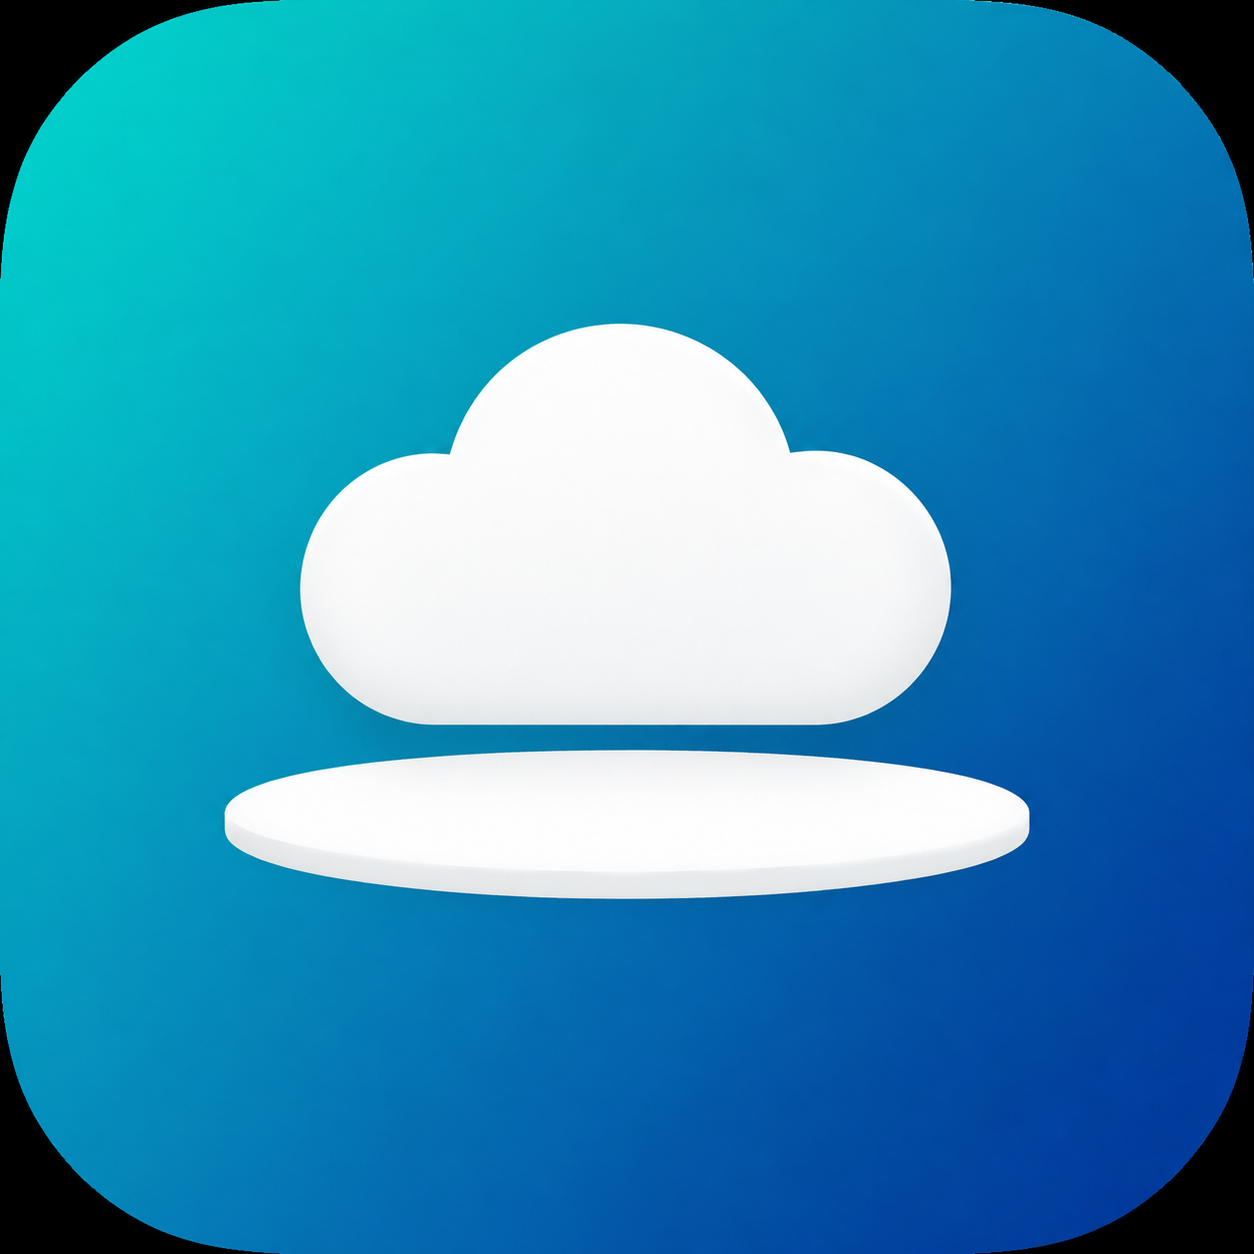
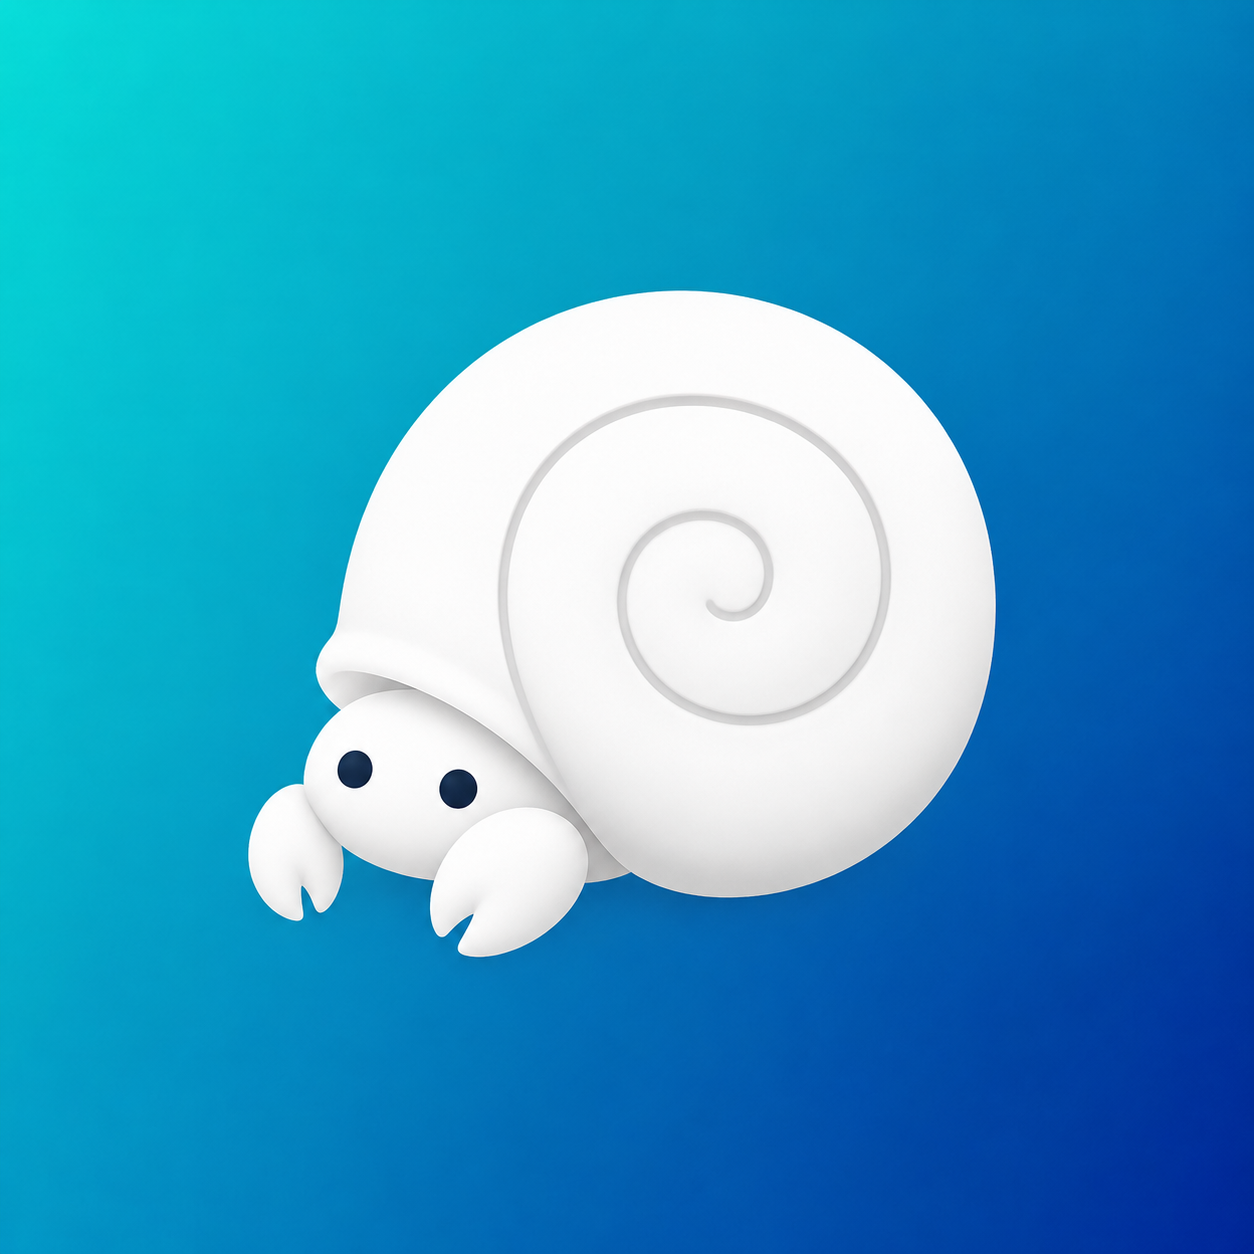
feat: draw the hermit crab instead of the cloud
The app icon and the menu bar mark are now generated art rather than
shapes assembled in code. The mark loads two images, filled and hollow,
cut from the same frame so it does not shift when the state changes.
Waiting dims the filled one; a failure puts the badge on the hollow one.

docs/art-prompt.md carries the prompts that produced these, along with
the two things the generator got wrong on the way: blank pupil-less eyes
on stalks, and thin walking legs that no outline survives.

diff --git a/Sources/Mark.swift b/Sources/Mark.swift
@@ -1,12 +1,12 @@
 import AppKit
 
-// Gocci の印。雲の下半分が円盤（ディスク）になっている。
+// Gocci の印。渦巻きの殻を背負ったヤドカリ。
 //
-// メニューバーでの実寸は 18pt しかないので、絵ではなく図形として組む。塊同士の
-// 組み合わせだけで出来ているため、縮めても輪郭が残る。
+// メニューバーでの実寸は 18pt しかない。形は `Resources/mark-solid.png` と
+// `Resources/mark-outline.png` の2枚が持っていて、ここでは読み込んで単色として
+// 扱うだけにする。塗りと中抜きは同じ枠で切ってあるので、状態が変わっても印は動かない。
 //
-// 同じ形をアプリのアイコン（1024px）でも使う。大小で別々に作ると必ずずれるので、
-// 座標は 100×100 の升目で一度だけ決めて、あとは倍率を掛ける。
+// 待ちは塗りを薄くしたもの、不具合は中抜きにバッジを重ねたもので、どちらもここで作る。
 
 enum Mark {
     /// メニューバーでの見せ方
@@ -22,70 +22,48 @@ enum Mark {
     }
 
     // MARK: - 形
-    //
-    // 幅 100・高さ 76 の升目で設計する。縦横で別々の倍率を掛けると円が歪むので、
-    // 倍率は幅からの1つだけにする。
 
-    /// 設計に使う升目の縦横比。画像の大きさもこれに合わせる
-    static let aspect: CGFloat = 100 / 76
+    /// 印の縦横比。2枚は同じ枠なので、どちらから取っても同じ
+    static var aspect: CGFloat {
+        guard let size = art(.solid)?.size, size.height > 0 else { return 1 }
+        return size.width / size.height
+    }
 
-    /// 雲。円盤より狭くする。同じ幅だと重なって、ひと塊の雲にしか見えない
-    static func cloud(in box: CGRect) -> CGPath {
-        let s = box.width / 100
-        let at = { (x: CGFloat, y: CGFloat, r: CGFloat) in
-            CGRect(
-                x: box.minX + (x - r) * s, y: box.minY + (y - r) * s,
-                width: r * 2 * s, height: r * 2 * s)
+    /// 印の絵。アプリの中では束の中、道具から呼ぶときは作業場所の Resources から読む
+    private static func art(_ style: Style) -> NSImage? {
+        let name = (style == .outline || style == .badged) ? "mark-outline" : "mark-solid"
+        if let cached = cache[name] { return cached }
+
+        var found: NSImage?
+        if let url = Bundle.main.url(forResource: name, withExtension: "png") {
+            found = NSImage(contentsOf: url)
         }
-
-        let path = CGMutablePath()
-        path.addEllipse(in: at(50, 52, 22))  // 中央の高いふくらみ
-        path.addEllipse(in: at(28, 44, 16))
-        path.addEllipse(in: at(72, 44, 16))
-        // ふくらみの下を埋めて、底をまっすぐ円盤へ落とす
-        path.addRect(
-            CGRect(x: box.minX + 12 * s, y: box.minY + 38 * s, width: 76 * s, height: 10 * s))
-        return path
+        if found == nil {
+            found = NSImage(contentsOfFile: "Resources/\(name).png")
+        }
+        cache[name] = found
+        return found
     }
 
-    /// 円盤。斜め上から見た楕円。雲より広く取らないと、雲の裾に飲まれて見えなくなる
-    static func disk(in box: CGRect) -> CGPath {
-        let s = box.width / 100
-        let path = CGMutablePath()
-        path.addEllipse(
-            in: CGRect(x: box.minX, y: box.minY, width: 100 * s, height: 28 * s))
-        return path
-    }
-
-    /// 雲と円盤を合わせた輪郭。
-    ///
-    /// 雲と円盤は離す。くっつけると裾の広い一つの塊になり、帽子にしか見えなくなる。
-    /// 部品を重ねただけの道を線で描くと内側の線が全部出るので、雲は先に一つへまとめる
-    static func silhouette(in box: CGRect) -> CGPath {
-        let path = CGMutablePath()
-        path.addPath(merged(cloud(in: box)))
-        path.addPath(disk(in: box))
-        return path
-    }
-
-    /// 重なった部品を一つの形にまとめる
-    private static func merged(_ path: CGPath) -> CGPath {
-        path.union(CGMutablePath())
-    }
+    private nonisolated(unsafe) static var cache: [String: NSImage?] = [:]
 
     // MARK: - 絵にする
 
     /// 指定した高さの画像を作る。メニューバー用は単色として扱わせる
     static func image(height: CGFloat, style: Style, template: Bool = true) -> NSImage {
-        // 円盤のぶん横に広いので、幅は高さの 1.15 倍
-        let size = NSSize(width: (height * 1.15).rounded(), height: height)
+        // 升目より横に広い。倍率は升目の縦横比から取る
+        let size = NSSize(width: (height * aspect).rounded(), height: height)
         let image = NSImage(size: size)
 
         image.lockFocus()
         defer { image.unlockFocus() }
         guard let ctx = NSGraphicsContext.current?.cgContext else { return image }
 
-        let box = CGRect(origin: .zero, size: size).insetBy(dx: size.width * 0.04, dy: height * 0.1)
+        // 升目の比のまま中央に置く。不具合のバッジが下へ少しはみ出すので、余白を残す
+        let boxWidth = size.width * 0.86
+        let box = CGRect(
+            x: (size.width - boxWidth) / 2, y: (height - boxWidth / aspect) / 2,
+            width: boxWidth, height: boxWidth / aspect)
         draw(in: ctx, box: box, style: style, color: .black)
 
         image.isTemplate = template
@@ -93,29 +71,17 @@ enum Mark {
     }
 
     static func draw(in ctx: CGContext, box: CGRect, style: Style, color: NSColor) {
-        let shape = silhouette(in: box)
+        guard let art = art(style), let mask = art.cgImage(forProposedRect: nil, context: nil, hints: nil)
+        else { return }
 
-        switch style {
-        case .solid:
-            ctx.setFillColor(color.cgColor)
-            ctx.addPath(shape)
-            ctx.fillPath()
+        // 絵は黒に透明度だけを持たせてある。それを型紙にして、指定の色で塗る
+        ctx.saveGState()
+        ctx.clip(to: box, mask: mask)
+        ctx.setFillColor(color.withAlphaComponent(style == .dim ? 0.4 : 1).cgColor)
+        ctx.fill(box)
+        ctx.restoreGState()
 
-        case .dim:
-            ctx.setFillColor(color.withAlphaComponent(0.4).cgColor)
-            ctx.addPath(shape)
-            ctx.fillPath()
-
-        case .outline, .badged:
-            // 中抜き。線は実寸で 1.5px 相当まで太らせないと、18pt で消える
-            ctx.setStrokeColor(color.cgColor)
-            ctx.setLineWidth(max(1.4, box.width * 0.075))
-            ctx.setLineJoin(.round)
-            ctx.addPath(shape)
-            ctx.strokePath()
-
-            if style == .badged { drawBadge(in: ctx, box: box, color: color) }
-        }
+        if style == .badged { drawBadge(in: ctx, box: box, color: color) }
     }
 
     /// 不具合の印。右下に小さな丸を置き、地の輪郭をくり抜いてから重ねる。

diff --git a/docs/art-prompt.md b/docs/art-prompt.md
@@ -1,13 +1,16 @@
 # 絵の生成に使う指示
 
-そのまま貼り付けて使う。作るのは**アプリのアイコン1枚だけ**。
+そのまま貼り付けて使う。作るのは3枚。**アプリのアイコン1枚**と、**メニューバーの印2枚**。
 
-メニューバーの印は絵にしない。18pt では絵が潰れること、接続中・未接続・待ち・不具合の
-4状態を同じ形で描き分ける必要があることから、`Sources/Mark.swift` で図形として描いている。
-生成した絵と形が揃うよう、下の指示にも同じ形（雲が円盤に載っている）を書いてある。
+描くのは**渦巻きの殻を背負ったヤドカリ**。別の場所にあった容れ物を自分のものとして背負う形が、
+外のストレージを自分のディスクとして持つ話と重なる。
 
-今 `Resources/gocci-icon.png` にあるのは、その図形をそのまま大きくした仮の絵。
-生成したものが手に入ったら差し替える。
+メニューバーの印は、以前は `Sources/Mark.swift` で図形として描いていた。今は塗りと中抜きの
+2枚を読み込んで単色として扱う。接続中・未接続・待ち・不具合の4状態のうち、待ちは塗りを
+薄くしたもの、不具合は中抜きにバッジを重ねたもので、どちらも `Mark.swift` が作る。
+
+18pt でヤドカリとは読めない。丸に鋏が2本付いた印、という程度に落ちる。これは大きさの
+制約で、どの絵で作っても同じになる。
 
 ## アプリのアイコン（`Resources/gocci-icon.png`）
 
@@ -24,27 +27,115 @@ Background: a smooth diagonal gradient from a bright teal in the upper left to
 a deep navy blue in the lower right. Nothing else in the background — no
 scenery, no stars, no sparkles, no texture.
 
-Subject: a simple white cloud resting on a white disk, centered.
+Subject: a small hermit crab carrying its spiral shell, seen from the side,
+facing left, centered. It is a calm, friendly, simplified character — not
+realistic, not detailed, not scary.
 
-- The cloud is a soft rounded cloud made of three merged bumps, the tallest in
-  the middle. It is one solid shape, no separated puffs.
-- The disk below it is a flat wide ellipse, as if a drive platter seen from
-  slightly above. It is clearly wider than the cloud, so it reads as a plate
-  the cloud is sitting on.
-- There is a small visible gap between the bottom of the cloud and the top of
-  the disk. They must not merge into one silhouette, or it reads as a hat.
-- Both are pure white with only very soft shading, in the same style as a
-  modern flat app icon. No outlines.
+- The shell is the main shape: a smooth spiral seen from the side, a clean
+  logarithmic curve with about two and a half turns, drawn as one solid white
+  shape with a single darker line marking the spiral groove. It is large — the
+  shell alone is roughly two thirds of the whole subject.
+- The crab itself is small and simple: a rounded body peeking out of the shell
+  opening at the lower left, two short stubby claws, and two eyes. It has
+  exactly two claws and nothing else — no extra legs, no thin pale limbs.
+- The eyes matter most. They sit directly on the body, NOT on stalks, and each
+  eye is a solid dark navy dot on the white body, like a friendly cartoon
+  character. Blank white eyes without pupils are wrong and look frightening.
+- The body is white with only very soft shading, in the style of a modern flat
+  app icon. The two dark marks in the whole subject are the eyes; the spiral
+  groove is a single light grey line.
+- The silhouette must stay readable when shrunk very small: keep the shell's
+  spiral wide and open, and keep the claws thick and stubby, never thin lines.
 
-Composition: the cloud and disk together occupy about 60% of the icon width and
-sit slightly above the center.
+Composition: the crab occupies about 65% of the icon width and is centered,
+sitting very slightly above the middle. It floats on the plain background.
 
-Do not include: text, letters, logos, the Google Drive triangle logo, arrows,
-shadows cast on the background, or any other object.
+Do not include: eyes on stalks, blank pupil-less eyes, more than two limbs,
+thin finger-like limbs, text, letters, logos, the Google Drive triangle logo,
+arrows, sand, water, bubbles, a beach, ground, a horizon line, a cast shadow,
+a cloud, a disk or ellipse, or any other object.
 ```
 
 > Galopen が青紫のグラデーションなので、こちらは青緑から藍に振ってある。
-> Konechi のようなキャラは置かない。生き物にはしないと決めてある。
+> 生き物やキャラを避ける決まりは無い。Konechi にキャラが居るのと同じ線で置いてよい。
+
+**目で失敗する。** 1回目（2026-08-15）は、全部を白と指定したせいで瞳の無い白い球が
+柄の先に付き、手足も5本の細長い白で出て、はっきり怖い絵になった。目は濃い色の点を
+体に直接置く、手足は2本まで、と明示してある。ここだけは毎回確認する。
+
+そのほか外しやすいのは、細部を描き込みすぎることと、砂浜や波を勝手に添えること。
+どちらも 18pt で潰れるか、風景として読まれる。駄目なら
+"flat vector icon, minimal detail, plain background, no scenery" を足して出し直す。
+文字やロゴを足してくることも多い。
+
+## メニューバーの印（`Resources/mark-solid.png` と `Resources/mark-outline.png`）
+
+2枚要る。塗りと中抜き。待ちは塗りを薄くしたもの、不具合は中抜きにバッジを重ねたもので、
+どちらもこちら側で作る。
+
+**白黒で作ってもらう。** メニューバーの印は単色として扱わせる（`isTemplate = true`）ので、
+色は使わない。黒の濃さだけが形になる。
+
+### 1枚目・塗り
+
+```text
+Draw a single flat black silhouette of a hermit crab carrying a spiral shell,
+seen from the side, facing left, centered on a pure white square background.
+
+This is a macOS menu bar icon. It will be displayed at 18 pixels tall, so it
+must be extremely simple and bold — closer to a road sign than to a drawing.
+
+- Pure black shape on pure white. No grey, no gradient, no shading, no texture.
+- The shell is a large plain round shape filling most of the icon. It has no
+  spiral groove and no bumps along its edge — a clean, simple round shell.
+- Exactly TWO claws stick out at the lower left, and NOTHING else. No walking
+  legs. No feelers. No antennae. Six thin legs is wrong. Two thick claws only.
+- Each claw is a short, fat, rounded blob, as thick as it is long. The gap
+  between the two claws is wide and obvious.
+- Nothing anywhere in the shape may be thinner than 1/8 of the icon width.
+  Measure the thinnest part: if it is thinner than that, make it fatter.
+- One single connected shape, with a smooth simple outer edge.
+- Leave a small even white margin around the shape.
+
+Do not include: walking legs, antennae, eyes, a spiral groove, bumps on the
+shell edge, text, letters, colour, grey fills, a shadow, or any second object.
+```
+
+### 2枚目・中抜き
+
+同じ形の輪郭だけ。1枚目を出したあと、続けてこう頼む。
+
+```text
+Now draw the exact same hermit crab shape as an outline only: the same
+silhouette, hollow inside, drawn as a uniform thick black stroke tracing the
+outer edge, white inside, on the same pure white square background.
+
+The stroke is uniform and very thick — roughly 1/8 of the icon width — with
+rounded joins. Only the outer edge is drawn: no inner lines, no spiral groove,
+no divisions between the shell, the body and the claws.
+
+Keep the two claws fat and far apart, so the white gap between them stays open
+and does not close up.
+
+Do not include: walking legs, antennae, eyes, text, letters, colour, grey
+fills, or any second object.
+```
+
+正方形で 512×512 以上。地は白でよい。透過は要らない。
+
+**脚を足してくる。** 1回目（2026-08-15）は「細い部分なし・鋏2本」と書いたのに細い脚が
+5本付いてきた。18pt で潰れるだけでなく、中抜きも作れなくなる。上の指示にある「1/8 より
+細い部分を作らない」「脚は描かない」を消さないこと。
+
+### 取り込み方
+
+生成した2枚は、そのままでは使えない。
+
+- 地の白はぴったり 255 ではない。24 未満を 0 に落としてから伸ばさないと、薄い灰色の
+  四角が印として残る
+- 2枚は**同じ枠**で切る。別々に切ると、状態が変わるたびに印がわずかに動く
+- 黒に透明度だけを持たせた PNG にして `Resources/mark-solid.png` と
+  `Resources/mark-outline.png` に置く。色は `Mark.draw` が塗る
 
 ## 置き場所
 
